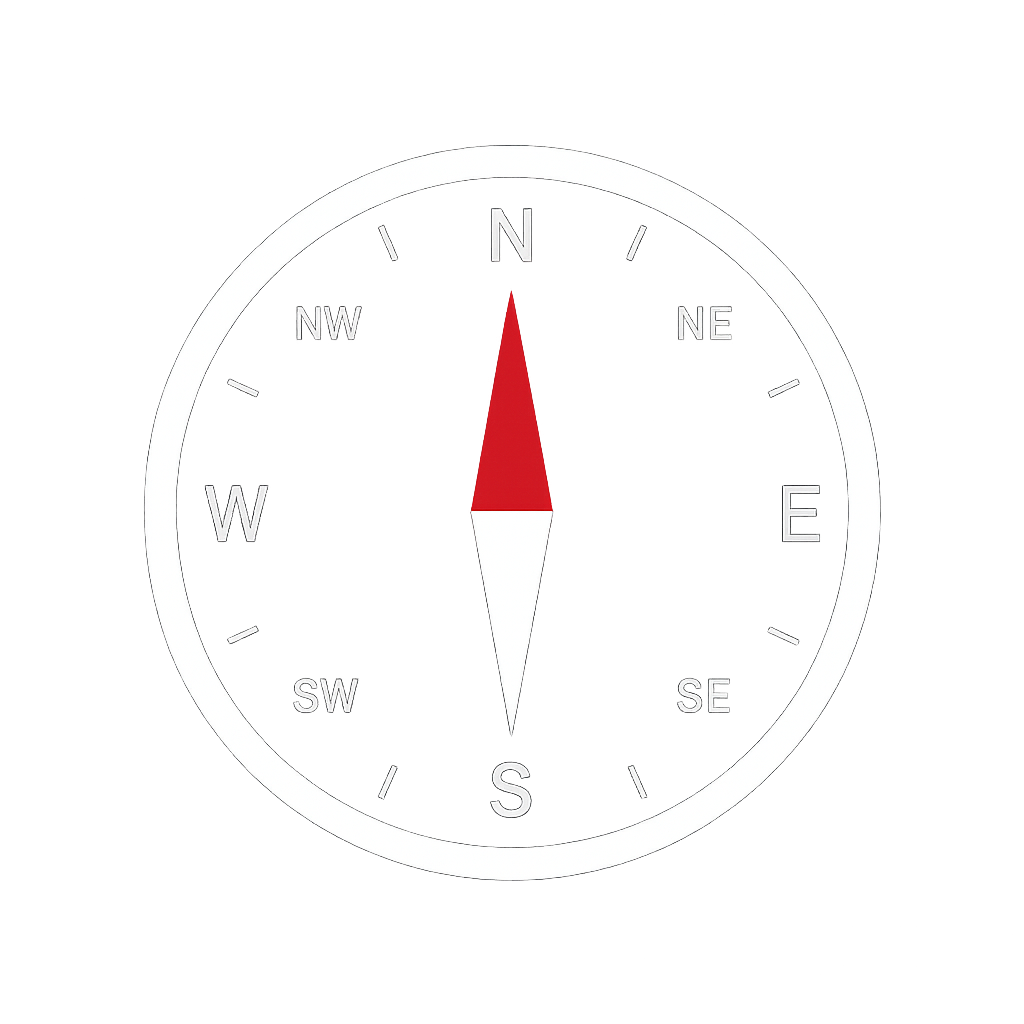
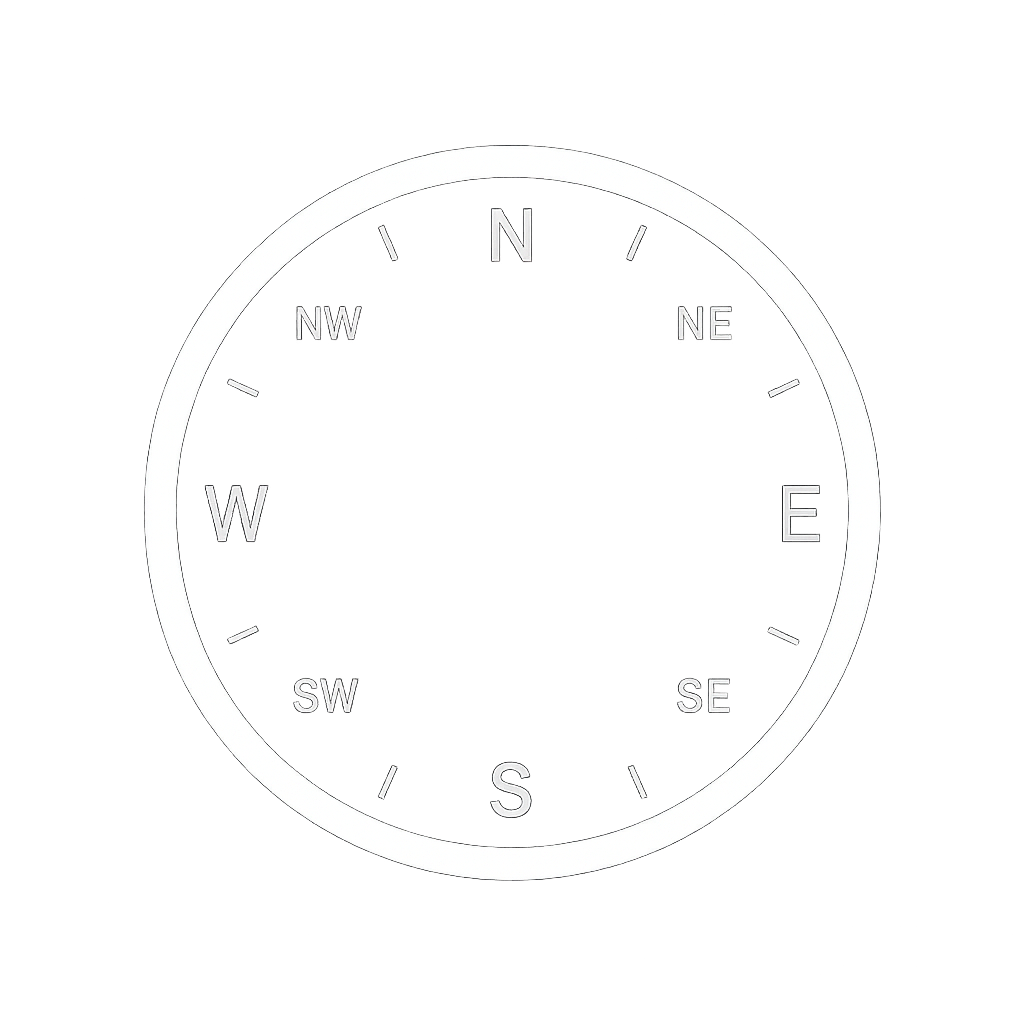
fix wind compass

Changed region(s): [[0.4375, 0.2812, 0.5625, 0.5]]

diff --git a/static/main.js b/static/main.js
@@ -63,22 +63,6 @@ function flipCard(element) {
     card.classList.toggle("flipped");
 }
 
-function rotateCompass(degrees) {
-    const compass = document.getElementById('wind-compass');
-    if (compass) {
-        compass.style.transform = `rotate(${degrees}deg)`;
-    }
-}
-
-document.addEventListener("DOMContentLoaded", () => {
-    const compass = document.getElementById("wind-compass");
-    if (compass) {
-        const dirText = compass.dataset.winddir;
-        const degrees = convertCompassToDegrees(dirText);
-        rotateCompass(degrees);
-    }
-});
-
 function convertCompassToDegrees(dir) {
     const directions = [
         "N", "NNE", "NE", "ENE",
@@ -87,6 +71,21 @@ function convertCompassToDegrees(dir) {
         "W", "WNW", "NW", "NNW"
     ];
     const index = directions.indexOf(dir.toUpperCase());
-    return index >= 0 ? (index * 22.5) : 0;
+    return index >= 0 ? index * 22.5 : 0;
 }
 
+function rotateNeedle(degrees) {
+    const needle = document.getElementById('wind-needle');
+    if (needle) {
+        needle.style.transform = `rotate(${degrees}deg)`;
+    }
+}
+
+document.addEventListener("DOMContentLoaded", () => {
+    const needle = document.getElementById("wind-needle");
+    if (needle) {
+        const dirText = needle.dataset.winddir;
+        const degrees = convertCompassToDegrees(dirText);
+        rotateNeedle(degrees);
+    }
+});

diff --git a/templates/dashboard.html b/templates/dashboard.html
@@ -72,9 +72,9 @@
             <div class="card">
                 <h2>Wind</h2>
                 <div class="wind-compass-container">
-                    <img id="wind-compass" src="{{ url_for('static', filename='compass.png') }}" alt="Wind Direction Compass" data-winddir="{{ weather.winddir }}">
-
-                    <div class="wind-speed">{{ weather.windkmh }} km/h</div>
+                    <img class="compass-face" src="{{ url_for('static', filename='compass.png') }}" alt="Compass Face">
+                    <img class="compass-needle" id="wind-needle" src="{{ url_for('static', filename='needle.png') }}"
+                        alt="Needle" data-winddir="{{ weather.winddir }}">
                 </div>
                 <p>Gusts: {{ weather.gustkmh }} km/h</p>
             </div>

diff --git a/static/style.css b/static/style.css
@@ -246,15 +246,19 @@ canvas {
 
 .wind-compass-container {
     position: relative;
-    width: 120px;
-    height: 120px;
+    width: 240px;
+    height: 240px;
     margin: 0 auto 0.5em auto;
 }
 
 .wind-compass-container img {
+    position: absolute;
+    top: 0;
+    left: 0;
     width: 100%;
     height: auto;
-    transition: transform 0.5s ease-in-out;
+    pointer-events: none;
+    user-select: none;
 }
 
 .wind-speed {
@@ -264,4 +268,14 @@ canvas {
     text-align: center;
     font-size: 1em;
     color: #ccc;
+}
+
+.compass-face {
+    z-index: 1;
+}
+
+.compass-needle {
+    z-index: 2;
+    transform-origin: 50% 50%;
+    transition: transform 0.5s ease-in-out;
 }
